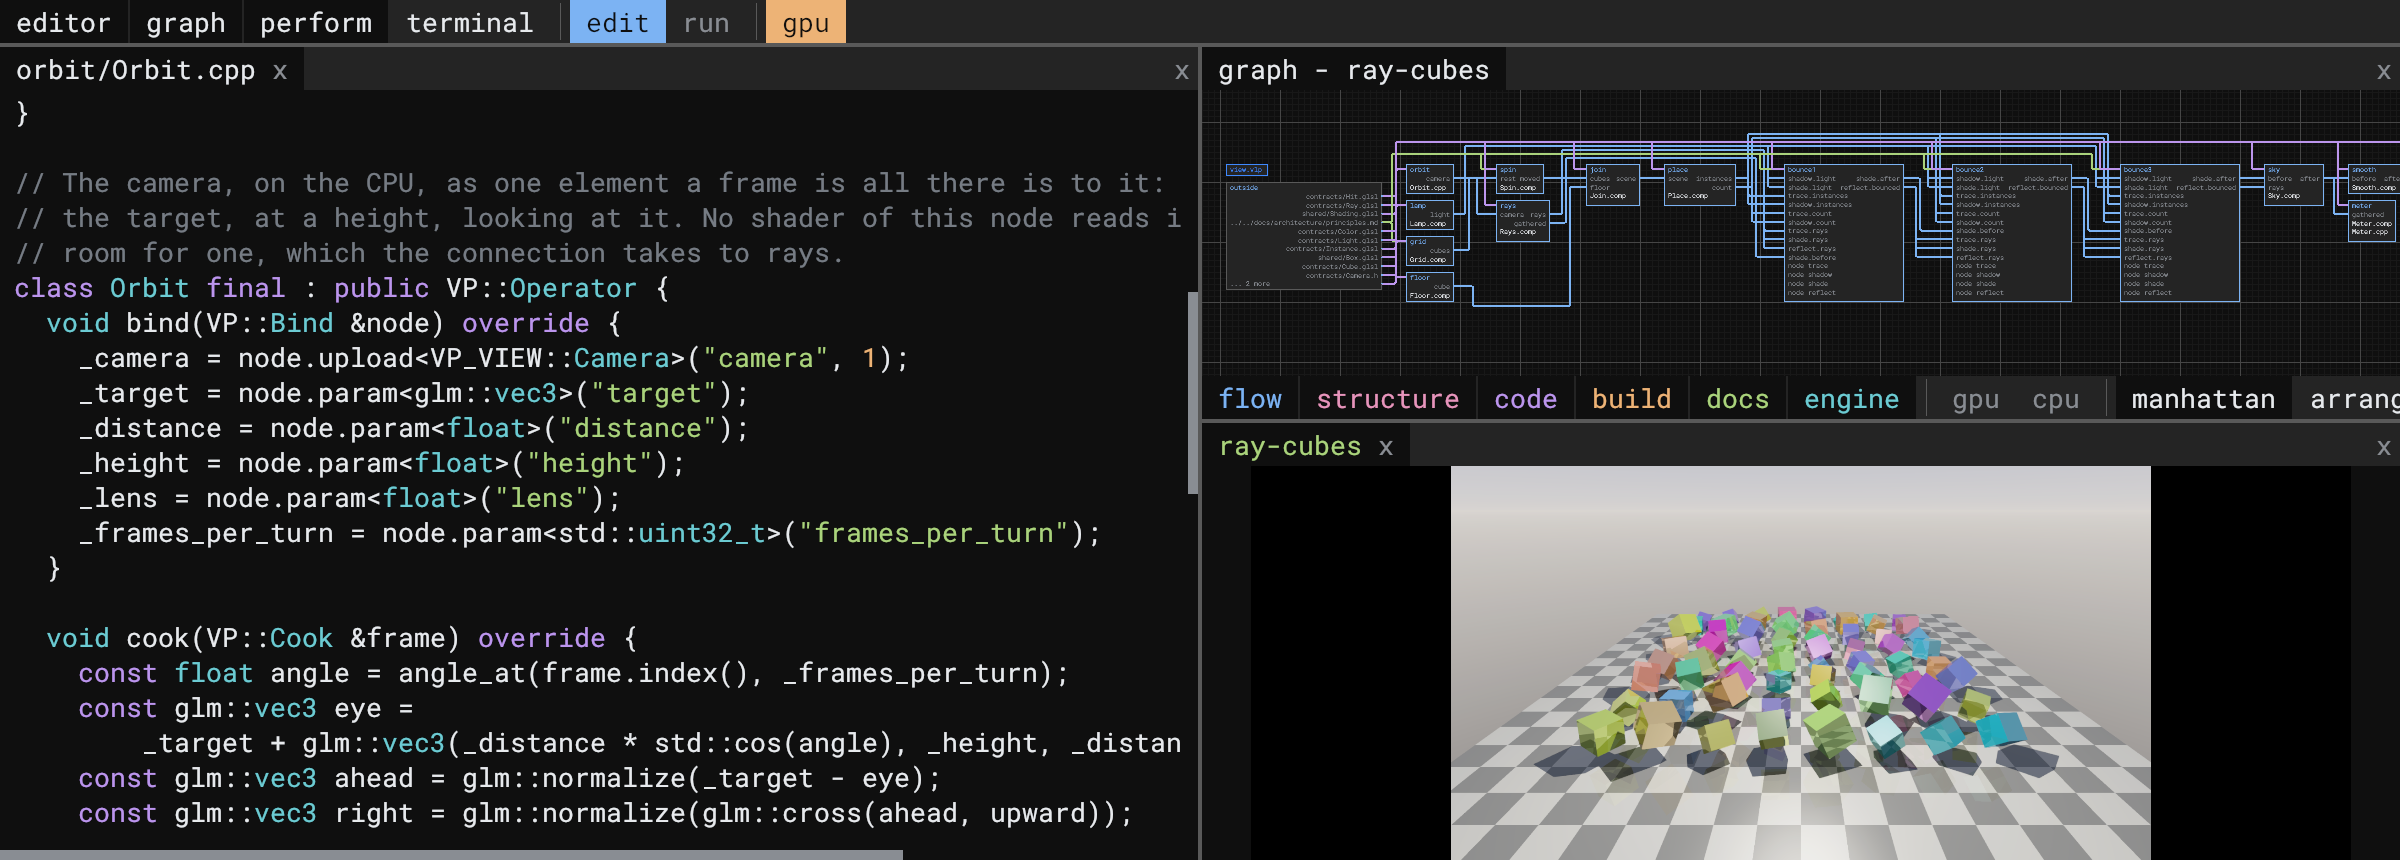
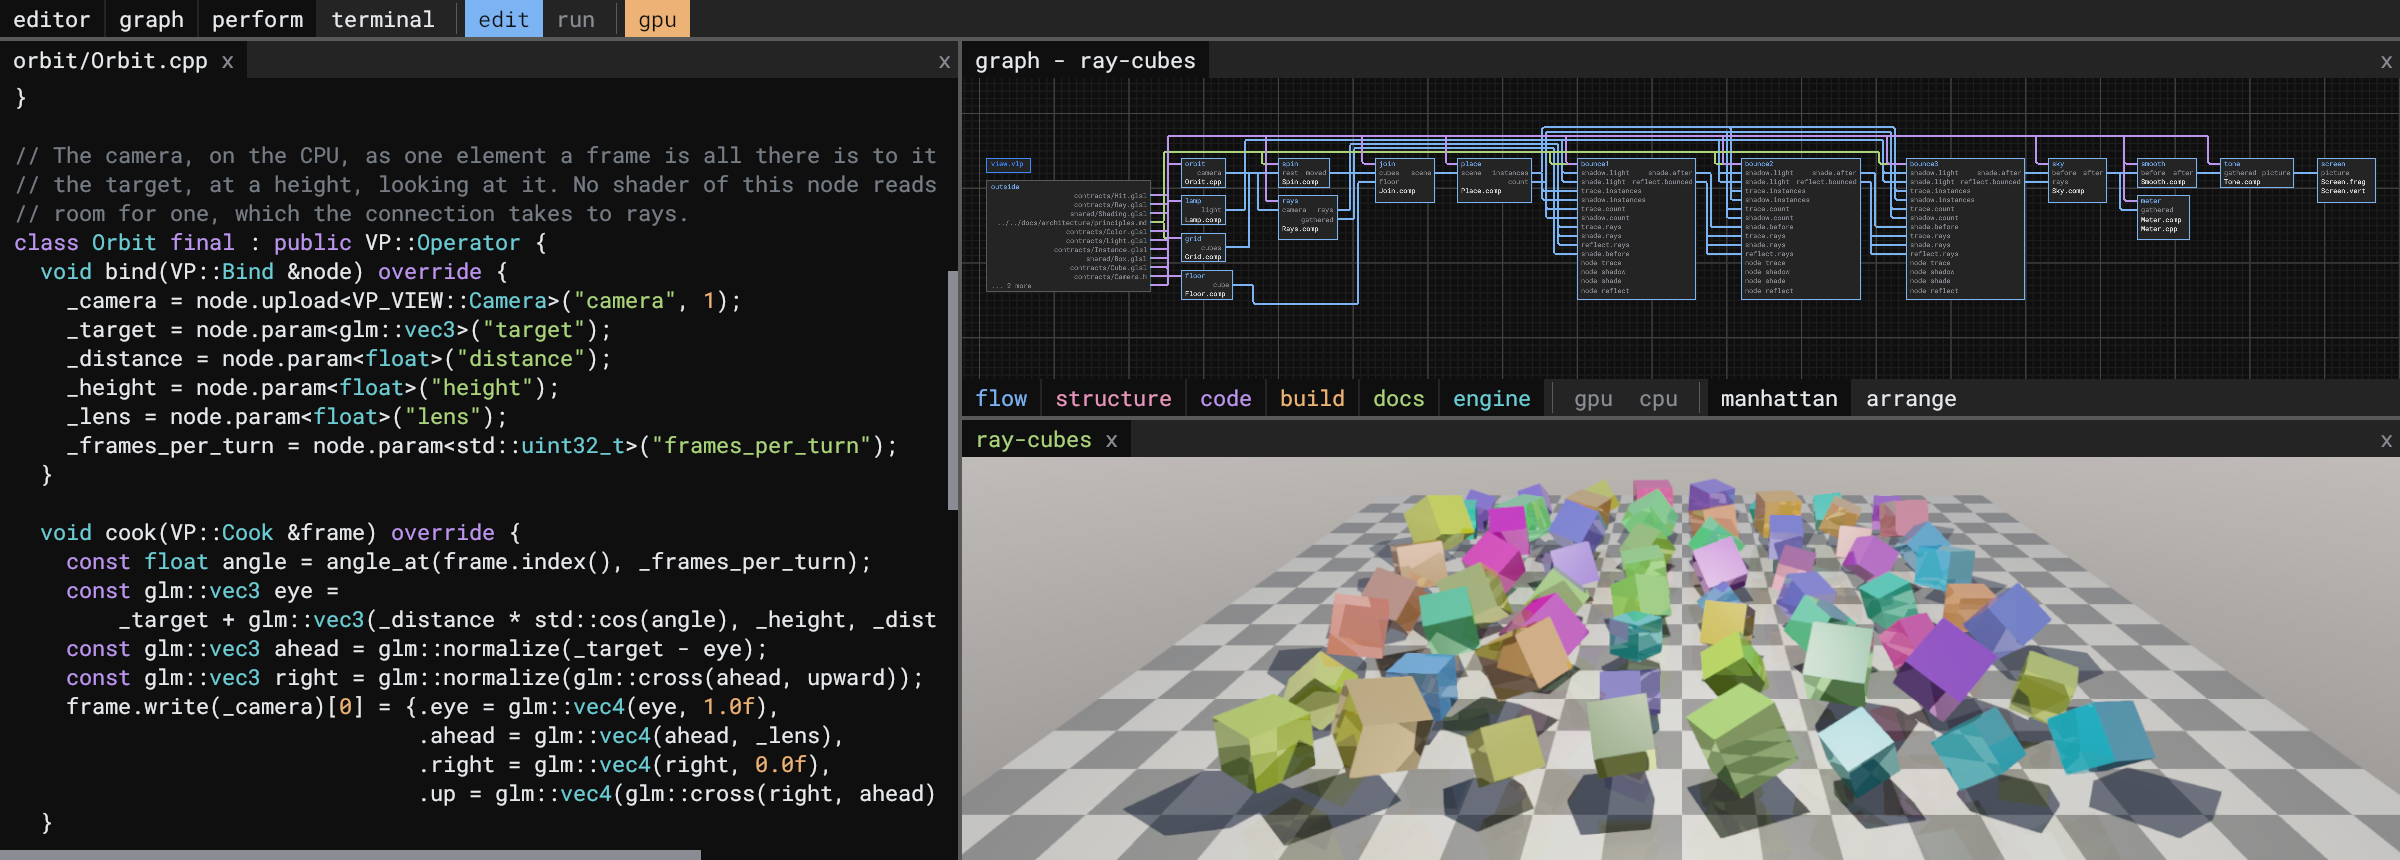
tools: the README's hero at zoom 5, the editor four tenths of the width, so it shows the code as wide as before and the graph and the Perform panel get the rest, and the wheel over the Perform panel zooms ray-cubes in until it fills the panel's width, about the cubes, so no bars show beside it; the 

diff --git a/src/tools/update-readme-images.py b/src/tools/update-readme-images.py
@@ -124,12 +124,15 @@ HELD = ["param set spin speed 0", "param set orbit frames_per_turn 0",
 # caret blinks: the picture is the same at whatever frame it is taken. No line shows an
 # absolute path, which names the copy, a new folder each run. The sizes and the text's
 # zoom are for the README's column, about 880 pixels wide, so the text reads there.
-# The cover: a node's C++ beside the project's graph and what it draws, wide.
+# The cover: a node's C++ beside the project's graph and what it draws, wide. The text
+# small enough that a narrow editor shows the code's width, the graph and the project
+# wider; the wheel over the Perform panel zooms the project in until it fills the panel's
+# width, so no bars show beside it, the cubes kept in view.
 HERO = {
     "hero": [*CLEAR, *typed("view load ray-cubes"), *HELD, *typed("open Orbit.cpp"),
-             *typed("info orbit"), *zoom(7), *panels("hide", "terminal"),
-             *ratio("top", 0.5), *ratio("side", 0.46), *scroll(500, 400, -7, 2400),
-             "ide: focus"],
+             *typed("info orbit"), *zoom(5), *panels("hide", "terminal"),
+             *ratio("top", 0.4), *ratio("side", 0.46), *scroll(500, 400, -7, 2400),
+             *scroll(1680, 717, 7.5, 2400), "ide: focus"],
 }
 # Three squares side by side: the graph, a shader and the terminal, each given the window.
 TILES = {

diff --git a/docs/statistics/LOC.md b/docs/statistics/LOC.md
@@ -6,14 +6,14 @@ Generated by [`src/tools/fetch-statistics.py`](../../src/tools/fetch-statistics.
 
 | Language | Files | Code | Comment | Blank |
 | --- | --: | --: | --: | --: |
-| C++ | 143 | 26044 | 4511 | 2675 |
+| C++ | 143 | 26080 | 4524 | 2676 |
 | CMake | 4 | 430 | 135 | 31 |
 | GLSL | 126 | 2123 | 407 | 384 |
 | Manifest | 60 | 1196 | 500 | 370 |
 | PowerShell | 1 | 93 | 26 | 4 |
-| Python | 17 | 4603 | 269 | 599 |
+| Python | 17 | 4610 | 273 | 599 |
 | Shell | 2 | 99 | 31 | 4 |
-| **Total** | 353 | 34588 | 5879 | 4067 |
+| **Total** | 353 | 34631 | 5896 | 4068 |
 
 ## By folder
 
@@ -114,7 +114,7 @@ Generated by [`src/tools/fetch-statistics.py`](../../src/tools/fetch-statistics.
 | `src/runtime/recipes/library/components/terminal/` | 1 | 20 | 8 | 7 |
 | `src/runtime/recipes/library/components/text-area/` | 1 | 18 | 5 | 7 |
 | `src/runtime/recipes/library/components/tooltip/` | 1 | 18 | 6 | 7 |
-| `src/runtime/recipes/library/contracts/` | 18 | 339 | 145 | 82 |
+| `src/runtime/recipes/library/contracts/` | 18 | 339 | 146 | 82 |
 | `src/runtime/recipes/library/parts/bar/` | 2 | 59 | 11 | 8 |
 | `src/runtime/recipes/library/parts/command-items/` | 2 | 3 | 3 | 2 |
 | `src/runtime/recipes/library/parts/command-line/` | 2 | 1331 | 245 | 88 |
@@ -147,9 +147,9 @@ Generated by [`src/tools/fetch-statistics.py`](../../src/tools/fetch-statistics.
 | `src/runtime/recipes/library/parts/still/` | 3 | 117 | 30 | 17 |
 | `src/runtime/recipes/library/parts/switch-tabs/` | 2 | 74 | 13 | 11 |
 | `src/runtime/recipes/library/parts/switch/` | 2 | 34 | 5 | 9 |
-| `src/runtime/recipes/library/parts/text/` | 5 | 1589 | 250 | 125 |
+| `src/runtime/recipes/library/parts/text/` | 5 | 1625 | 262 | 126 |
 | `src/runtime/recipes/library/parts/viewport/` | 2 | 17 | 5 | 6 |
-| `src/tools/` | 6 | 2594 | 169 | 339 |
+| `src/tools/` | 6 | 2601 | 173 | 339 |
 | `src/tools/gates/` | 3 | 333 | 20 | 70 |
 | `src/tools/tests/` | 11 | 1835 | 118 | 207 |
 | `src/tools/tests/mistakes/` | 1 | 66 | 37 | 28 |
@@ -178,4 +178,4 @@ Generated by [`src/tools/fetch-statistics.py`](../../src/tools/fetch-statistics.
 | `src/tools/tests/mistakes/take/` | 1 | 27 | 2 | 7 |
 | `src/tools/tests/mistakes/twin/` | 1 | 9 | 2 | 4 |
 | `src/tools/tests/mistakes/wrong/` | 2 | 74 | 6 | 15 |
-| **Total** | 353 | 34588 | 5879 | 4067 |
+| **Total** | 353 | 34631 | 5896 | 4068 |

diff --git a/docs/statistics/performance.md b/docs/statistics/performance.md
@@ -4,6 +4,6 @@ Generated by [`src/tools/fetch-statistics.py`](../../src/tools/fetch-statistics.
 
 | System | CPU | GPU | Build | Startup to exit, median | Startup to exit, fastest | Binary size |
 | --- | --- | --- | --- | --: | --: | --: |
-| Linux | AMD Ryzen AI 7 350 w/ Radeon 860M | NVIDIA GeForce RTX 5070 Laptop GPU | `vulpen bf4efb55` | 1.05 ms | 0.57 ms | 3337.4 KiB |
+| Linux | AMD Ryzen AI 7 350 w/ Radeon 860M | NVIDIA GeForce RTX 5070 Laptop GPU | `vulpen b2e8d2e9-dirty` | 1.73 ms | 1.10 ms | 3337.5 KiB |
 | Windows | AMD Ryzen AI 7 350 w/ Radeon 860M | NVIDIA GeForce RTX 5070 Laptop GPU | `vulpen 2ddc4d7-dirty` | 8.04 ms | 7.38 ms | 683.0 KiB |
 | Linux | Intel(R) Core(TM) i7-7700HQ CPU @ 2.80GHz | NVIDIA GeForce GTX 1070 | `vulpen 8a92b28-dirty` | 1.98 ms | 1.62 ms | 3152.5 KiB |
